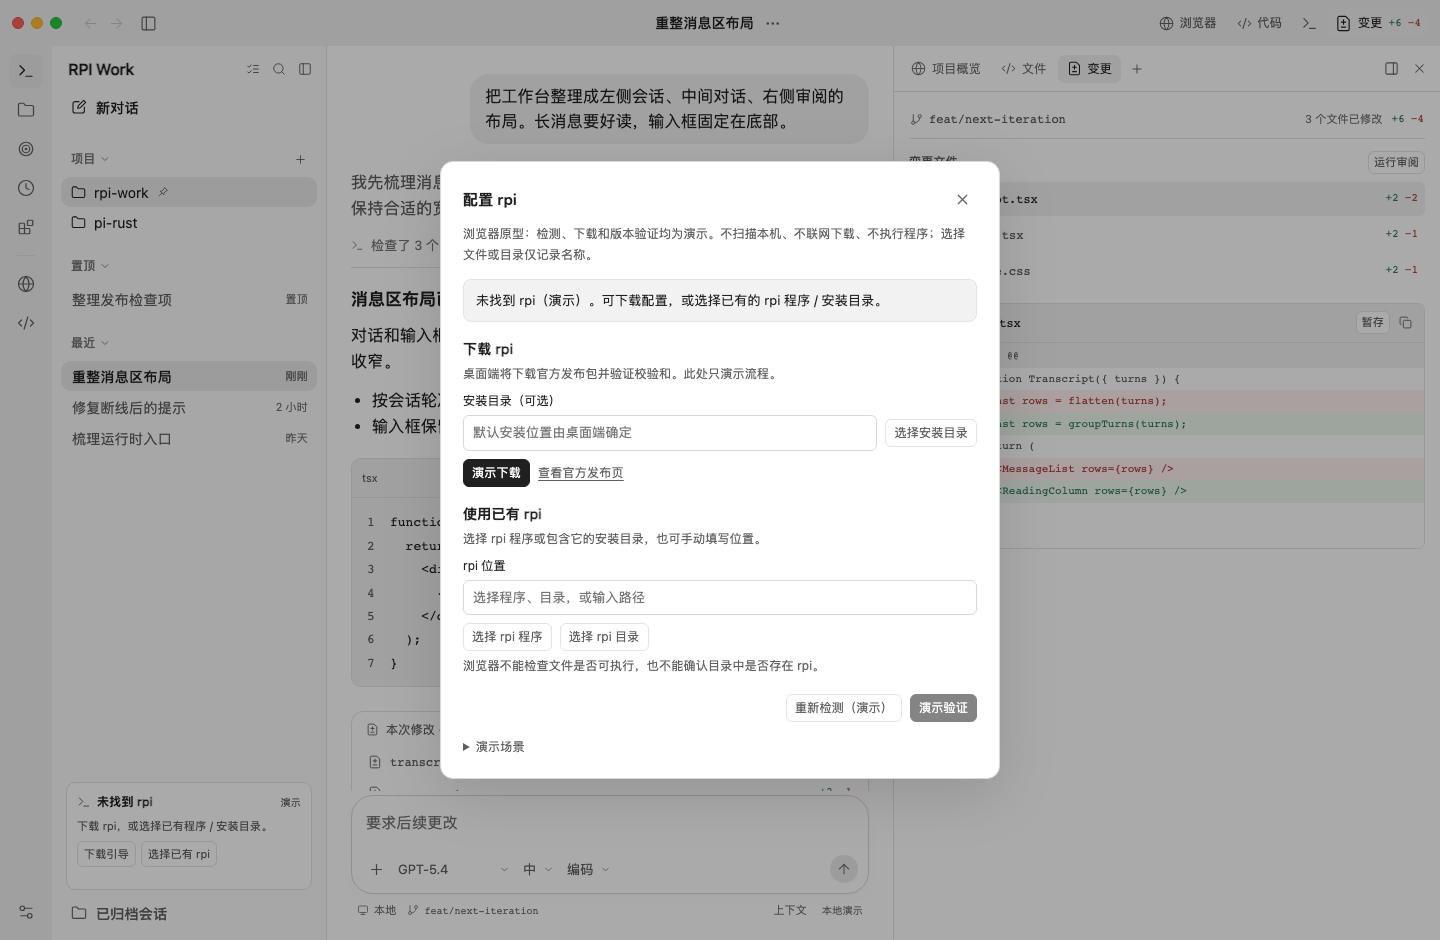
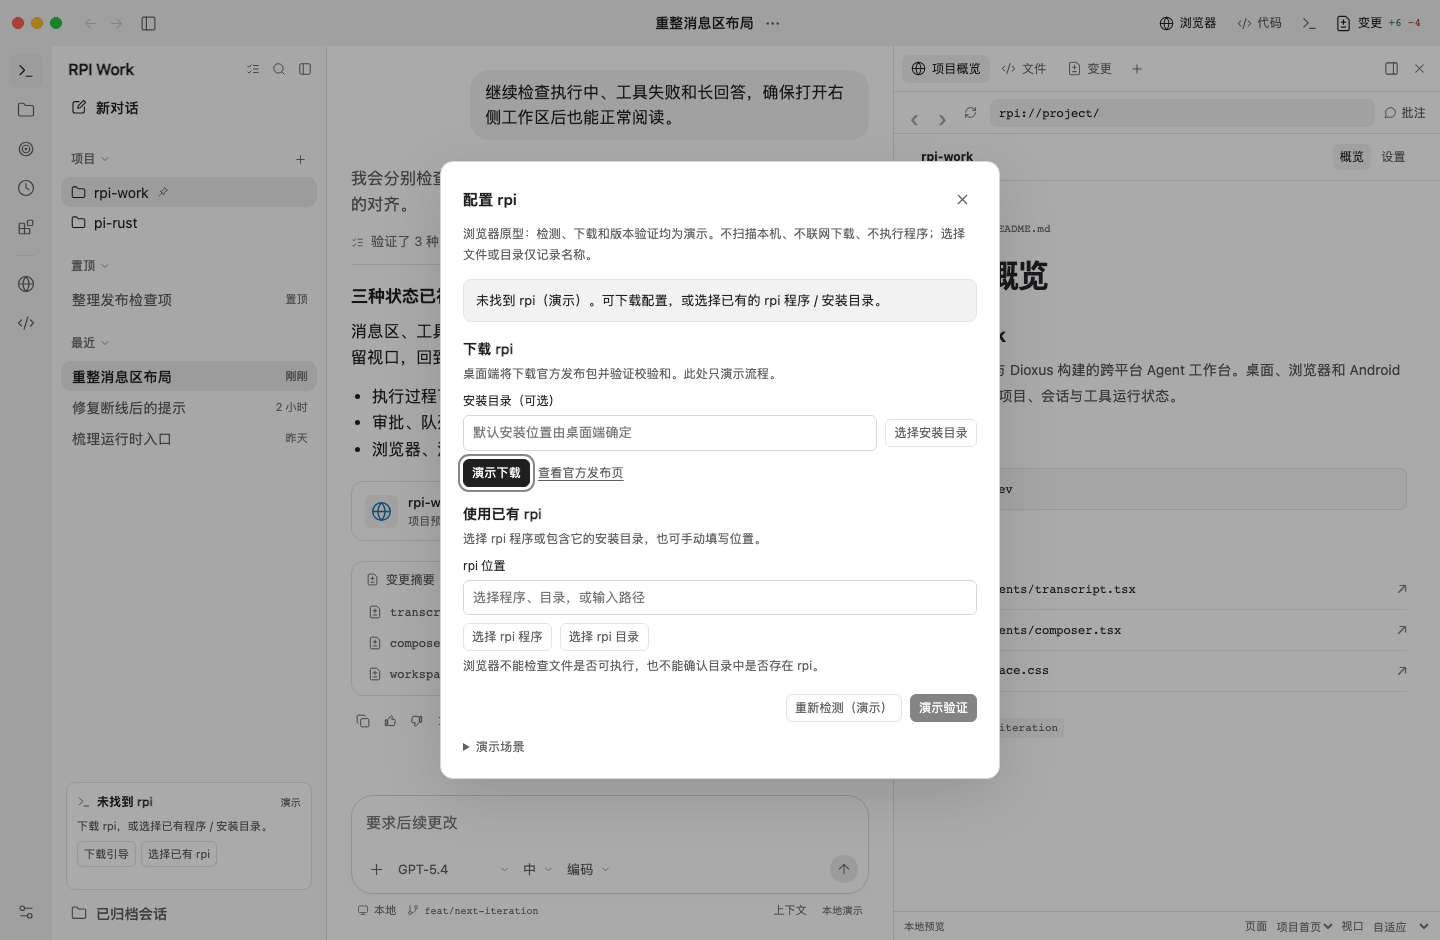
fix(reui): open startup setup only when rpi is missing

diff --git a/design/reui-message-layout/runtime-setup.js b/design/reui-message-layout/runtime-setup.js
@@ -18,6 +18,7 @@
   let stage = 'checking';
   let selection = confirmed;
   let timer;
+  let returnFocus = null;
   let pickerTicket = 0;
   let directoryTarget = 'location';
   const action = name => dialog.querySelector(`[data-runtime-action="${name}"]`);
@@ -56,12 +57,19 @@
     clearTimeout(timer);
     timer = setTimeout(callback, delay);
   }
-  function check() {
+  function check(showIfMissing = false) {
     error();
     stage = 'checking'; render();
-    later(() => { stage = confirmed ? 'ready' : 'missing'; render(); });
+    later(() => {
+      stage = confirmed ? 'ready' : 'missing'; render();
+      if (showIfMissing && stage === 'missing') open();
+    });
   }
   function open(manual = false) {
+    if (!dialog.open) {
+      const node = document.activeElement;
+      returnFocus = { node, start: node.selectionStart, end: node.selectionEnd, direction: node.selectionDirection };
+    }
     error();
     if (manual) {
       stage = selection ? 'locating' : 'missing';
@@ -168,6 +176,12 @@
     selection = confirmed;
     locationInput.value = confirmed?.label ?? '';
     error(); render();
+    const previous = returnFocus;
+    returnFocus = null;
+    if (previous?.node.isConnected) {
+      previous.node.focus({ preventScroll: true });
+      if (typeof previous.start === 'number') previous.node.setSelectionRange(previous.start, previous.end, previous.direction);
+    }
   });
-  check();
+  check(true);
 })();

diff --git a/design/reui-message-layout/README.md b/design/reui-message-layout/README.md
@@ -16,7 +16,7 @@
 
 ## 可以直接试的流程
 
-- **rpi 启动引导**　启动时自动显示非阻塞的演示检测卡；未配置时提示下载或选择已有 rpi。点「下载引导」可选择安装目录，演示下载、验证以及失败重试；也可选择 `rpi` / `rpi.exe` 程序、已有安装目录，或手动填写位置。下载完成不等于验证通过，只有演示验证成功才保存演示配置，刷新后保留。关闭引导不会清空草稿，进行中的演示任务会取消。所有检测、下载和执行都没有真实接入，只有文件/目录选择器是真实浏览器交互；官方发布页需要用户主动打开。[启动引导](screenshots/rpi-startup-guide.png) · [手动定位](screenshots/rpi-setup-manual.png) · [演示配置完成](screenshots/rpi-setup-ready.png)
+- **rpi 启动引导**　启动时先显示演示检测状态：[已检测到可用 rpi](screenshots/rpi-startup-ready.png) 则直接进入工作台，不弹窗；未检测到才自动弹出配置选择，让用户选择下载安装或手动指定已有 rpi。下载安装可选择安装目录，演示下载、验证以及失败重试；手动定位可选择 `rpi` / `rpi.exe` 程序、已有安装目录，或填写位置。下载完成不等于验证通过，只有演示验证成功才保存演示配置，刷新后保留且不再弹窗。关闭引导会取消进行中的演示任务，保留草稿、选区及原焦点，本次启动不重复弹出；之后仍可通过侧栏重新打开。所有检测、下载和执行都没有真实接入，只有文件/目录选择器是真实浏览器交互；官方发布页需要用户主动打开。[缺失时自动引导](screenshots/rpi-startup-guide.png) · [手动定位](screenshots/rpi-setup-manual.png) · [演示配置完成](screenshots/rpi-setup-ready.png)
 - **添加项目**　独立「项目」分组的标题旁放置「＋」图标，悬停提示「添加项目」。支持「选择文件夹」，名称自动填入，也可自行编辑名称或手动填写路径。优先使用原生目录选择器，不支持时使用浏览器文件夹输入；取消、拒绝或过期结果不覆盖原填写。浏览器只记录目录名，不返回绝对路径，也不读取文件内容；绝对路径与真实目录接入留给桌面端。添加后进入新项目对话，只展开项目分组，不改变最近会话的折叠或筛选状态。空白名称/路径和重名会提示；取消或 Esc 不添加项目、不清空原对话草稿。项目元数据仅保存在浏览器，不创建目录。[入口截图](screenshots/add-project-entry.png) · [添加弹窗](screenshots/add-project-dialog.png) · [添加完成](screenshots/project-added.png)
 - **项目与会话**　「项目」「置顶」「最近」分别折叠、独立保存偏好。项目列表只显示项目；点击项目进入该项目的新对话，项目菜单支持将项目排在项目列表前面，不会移动其会话。「置顶」只显示单独置顶的会话；「最近」直接平铺其他会话，不再按项目嵌套，悬停会话可查看所属项目和完整标题。会话菜单支持置顶、重命名、分叉、交接或归档。顶栏箭头沿本次访问过的会话前进、后退。搜索和执行中/待审批筛选仅影响会话，项目仍可独立访问。旧版最近分组折叠偏好会迁移到新版最近会话，不误折叠项目列表。归档会话可从设置恢复。
 - **输入与目标**　在输入框键入 `/` 搜索命令，使用 `/plan` 切换计划、`/status` 查看上下文、`/new` 新建聊天，有改动时可选 `/review`。输入 `@` 可选择示例文件或已打开目录中的文件。按 ↑/↓ 选择，Enter 或 Tab 确认。通过 `/goal` 或左侧目标按钮为当前聊天设定目标，输入框上方可以编辑、暂停、继续或移除。建立目标会启动或排队一次演示轮次，暂停会停止该目标正在运行的轮次并移除它的排队项。
@@ -59,10 +59,10 @@ python3 -m http.server 4193 --bind 127.0.0.1 --directory design/reui-message-lay
 
 用仓库 `tools/` 中的 Playwright 和已安装的 Chromium 运行浏览器回归。设置环境变量 `RPI_WORKBENCH_SHOTS` 可将截图输出到指定目录。
 
-当前回归包含 21 组流程。安装引导检查覆盖启动缺失/已配置状态、下载完成但未验证、下载/验证失败及重试、关闭后取消演示任务、手动选择程序/安装目录及配置刷新保留；项目目录检查覆盖原生 API 桩与真实浏览器文件夹输入、空目录句柄、取消/拒绝、过期结果和自定义名称保留，禁止应用读取测试文件内容，不执行程序或发起下载请求。这不等于原生桌面安装或系统文件选择器已经实机验收。侧栏检查覆盖项目/置顶/最近的数据分离、最近会话平铺且不重复、项目置顶只改变项目排序、独立折叠持久化、旧版偏好迁移、项目按钮及菜单键盘导航。添加项目检查覆盖项目标题旁的图标入口、可访问名称和悬停提示、打开时输入焦点、取消后草稿/选区/阅读位置与入口焦点保留、空白和重名提示、重新打开时清除旧错误、Esc 关闭，以及从折叠/筛选状态添加后的项目可见性、会话折叠/筛选保留、新对话归属与刷新保存。焦点检查在16种消息代码和8种源码只读/编辑桌面组合中读取PNG四边焦点像素，并验证消息代码Tab进入/离开/返回与草稿选区保留。原生ArrowRight探针在新窗口也曾超时，不列入稳定默认门槛；需明确设置 `RPI_WORKBENCH_NATIVE_SCROLL_PROBE=1` 才运行可选诊断，不代表原生键滚已完整覆盖。复制检查在隔离的剪贴板API桩内验证正文/代码/源码/diff精确载荷、正文不夹带控件、拒绝/缺失/同步抛错与重试图标恢复、延迟完成时的草稿/焦点/阅读位置，以及切换文件后的结果归属；不写真实系统剪贴板，也不等于原生权限或系统粘贴实机验证。阅读对比度检查覆盖消息/代码/diff的92个明暗计算颜色样本，包括代码计数器和增删行号，要求在实际均匀背景上至少4.5:1；这只是列明范围的对比度检查，不是全应用无障碍认证。Diff 阅读检查覆盖长行横向滚动时固定行号和反馈入口、长文件名单行省略、反馈/发现按可见宽度换行、鼠标与键盘的新/旧行位置，以及明暗、桌面宽度和320px窄面板。正文排版检查覆盖已有/新回答在16/18px、舒适/紧凑、明暗和阅读/经典布局下的一致行距，字号/密度变化后的可见块锚点与底部跟随，代码/日志独立字号、草稿/DOM/展开状态保留，以及长正文换行和代码局部横向滚动。预览像素检查从原始整窗 PNG 统计标题和主体的文字像素，覆盖浅/深/系统主题、弹窗往返与普通/可控时钟；同时确认主题切换不重载 iframe、不丢未保存表单和选区、不放宽沙箱。先前的「预览主体空白」目检记录已被原始截图与裁切证据推翻，详见视觉基准。消息层次检查覆盖最终正文与阅读列对齐、完成步骤默认折叠、原生摘要键盘开关、明暗/阅读/经典布局、完成和后台完成时保留已展开工具，以及「开始实施」和失败重试入口始终可见。会话阅读恢复检查覆盖各会话的滚动锚点、工具展开与收起、前进后退、资源页往返、后台流式更新、原本在底部时继续跟随，以及历史加载场景和字号/布局变化后的返回。阅读布局检查覆盖两种布局的实际几何与样式、刷新持久化、无效偏好回退、草稿和工具展开状态、滚动锚点、1440/1280/1024px 桌面宽度，以及新对话的空变更收起、返回恢复、鼠标与键盘手动覆盖和浏览器/源码保留。历史展示检查覆盖加载和失败时禁发、重试恢复、草稿与附件刷新保留、快速切换时的过期结果取消，以及空态发送首条消息。输入菜单检查覆盖 Home/End 与 Shift 选区变化、过期引用范围保护、上下键选择、正文前缀保留，以及中文组合事件与菜单/发送的隔离；事件回归不等于所有原生输入法都已实机验证。截图输出包含相同视口与字号下的两种布局、深色布局、三种新对话面板状态及历史加载/失败/恢复。这些是原型交互与布局验证，不代表已经实现桌面像素级 1:1 对齐。
+当前回归包含 21 组流程。安装引导检查覆盖已配置时不弹窗、未配置时自动弹出选择、关闭后不重复弹出、下载完成但未验证、下载/验证失败及重试、关闭后取消演示任务、手动选择程序/安装目录及配置刷新保留；项目目录检查覆盖原生 API 桩与真实浏览器文件夹输入、空目录句柄、取消/拒绝、过期结果和自定义名称保留，禁止应用读取测试文件内容，不执行程序或发起下载请求。这不等于原生桌面安装或系统文件选择器已经实机验收。侧栏检查覆盖项目/置顶/最近的数据分离、最近会话平铺且不重复、项目置顶只改变项目排序、独立折叠持久化、旧版偏好迁移、项目按钮及菜单键盘导航。添加项目检查覆盖项目标题旁的图标入口、可访问名称和悬停提示、打开时输入焦点、取消后草稿/选区/阅读位置与入口焦点保留、空白和重名提示、重新打开时清除旧错误、Esc 关闭，以及从折叠/筛选状态添加后的项目可见性、会话折叠/筛选保留、新对话归属与刷新保存。焦点检查在16种消息代码和8种源码只读/编辑桌面组合中读取PNG四边焦点像素，并验证消息代码Tab进入/离开/返回与草稿选区保留。原生ArrowRight探针在新窗口也曾超时，不列入稳定默认门槛；需明确设置 `RPI_WORKBENCH_NATIVE_SCROLL_PROBE=1` 才运行可选诊断，不代表原生键滚已完整覆盖。复制检查在隔离的剪贴板API桩内验证正文/代码/源码/diff精确载荷、正文不夹带控件、拒绝/缺失/同步抛错与重试图标恢复、延迟完成时的草稿/焦点/阅读位置，以及切换文件后的结果归属；不写真实系统剪贴板，也不等于原生权限或系统粘贴实机验证。阅读对比度检查覆盖消息/代码/diff的92个明暗计算颜色样本，包括代码计数器和增删行号，要求在实际均匀背景上至少4.5:1；这只是列明范围的对比度检查，不是全应用无障碍认证。Diff 阅读检查覆盖长行横向滚动时固定行号和反馈入口、长文件名单行省略、反馈/发现按可见宽度换行、鼠标与键盘的新/旧行位置，以及明暗、桌面宽度和320px窄面板。正文排版检查覆盖已有/新回答在16/18px、舒适/紧凑、明暗和阅读/经典布局下的一致行距，字号/密度变化后的可见块锚点与底部跟随，代码/日志独立字号、草稿/DOM/展开状态保留，以及长正文换行和代码局部横向滚动。预览像素检查从原始整窗 PNG 统计标题和主体的文字像素，覆盖浅/深/系统主题、弹窗往返与普通/可控时钟；同时确认主题切换不重载 iframe、不丢未保存表单和选区、不放宽沙箱。先前的「预览主体空白」目检记录已被原始截图与裁切证据推翻，详见视觉基准。消息层次检查覆盖最终正文与阅读列对齐、完成步骤默认折叠、原生摘要键盘开关、明暗/阅读/经典布局、完成和后台完成时保留已展开工具，以及「开始实施」和失败重试入口始终可见。会话阅读恢复检查覆盖各会话的滚动锚点、工具展开与收起、前进后退、资源页往返、后台流式更新、原本在底部时继续跟随，以及历史加载场景和字号/布局变化后的返回。阅读布局检查覆盖两种布局的实际几何与样式、刷新持久化、无效偏好回退、草稿和工具展开状态、滚动锚点、1440/1280/1024px 桌面宽度，以及新对话的空变更收起、返回恢复、鼠标与键盘手动覆盖和浏览器/源码保留。历史展示检查覆盖加载和失败时禁发、重试恢复、草稿与附件刷新保留、快速切换时的过期结果取消，以及空态发送首条消息。输入菜单检查覆盖 Home/End 与 Shift 选区变化、过期引用范围保护、上下键选择、正文前缀保留，以及中文组合事件与菜单/发送的隔离；事件回归不等于所有原生输入法都已实机验证。截图输出包含相同视口与字号下的两种布局、深色布局、三种新对话面板状态及历史加载/失败/恢复。这些是原型交互与布局验证，不代表已经实现桌面像素级 1:1 对齐。
 
 ```sh
 node design/reui-message-layout/verify.cjs
 ```
 
-可单独运行 `node design/reui-message-layout/verify-setup.cjs`。`?runtime=missing` / `?runtime=ready` 是显式启动状态夹具；「rpi 配置 → 演示场景」可选择下载失败或验证失败，均不代表真实检测结果。下载来源参考 [rpi 官方发布页](https://github.com/bigfish1913/pi-rust/releases)，本原型不会执行安装脚本。
+可单独运行 `node design/reui-message-layout/verify-setup.cjs`。常规工作台回归显式使用 `?runtime=ready` 模拟启动已通过，避免启动弹窗遮挡其他流程；安装引导回归独立验证静默进入、自动弹出和保存配置后的刷新行为，切换其他视图时保留启动夹具参数。`?runtime=missing` / `?runtime=ready` 是显式启动状态夹具；「rpi 配置 → 演示场景」可选择下载失败或验证失败，均不代表真实检测结果。下载来源参考 [rpi 官方发布页](https://github.com/bigfish1913/pi-rust/releases)，本原型不会执行安装脚本。

diff --git a/design/reui-message-layout/DESIGN-REVIEW.md b/design/reui-message-layout/DESIGN-REVIEW.md
@@ -35,10 +35,10 @@
 用户确认先补原型：添加项目可以选择文件夹，启动时体现 rpi 缺失后的下载安装引导，或手动选择已有程序 / 安装目录。
 
 - 添加项目优先使用原生目录选择器，回退到浏览器文件夹输入；自动填写名称但保留自定义名称。取消、拒绝或返回过晚的选择不覆盖当前表单。目录名不是绝对路径，界面明确说明；不读取所选文件内容。
-- 启动后自动显示非阻塞的演示检测卡，不抢占对话焦点、不静默下载安装。缺失时可打开[下载引导](screenshots/rpi-startup-guide.png)，选择目标目录，演示下载和验证；下载完成与验证通过分开，失败可重试。
+- 启动分支按最新确认调整：[已检测到可用 rpi](screenshots/rpi-startup-ready.png) 时静默进入工作台，不弹窗；未检测到才自动弹出[配置选择](screenshots/rpi-startup-guide.png)，让用户选择下载安装或手动指定已有 rpi。不静默下载安装，关闭后本次启动不再自动弹出，侧栏保留重新打开入口。选择目标目录后可演示下载和验证；下载完成与验证通过分开，失败可重试。
 - 可[手动定位](screenshots/rpi-setup-manual.png) `rpi` / `rpi.exe` 或已有安装目录，也可填写位置。选择程序仅做文件名检查，不能证明其可执行性、版本或安全性。
 - 检测、下载、校验和及版本验证都没有真实接入；只有选择器是真实浏览器交互，成功仅保存[演示配置](screenshots/rpi-setup-ready.png)。关闭引导取消未完成的演示任务，保留草稿及选区。官方发布页须用户主动打开，本原型不运行安装脚本。
-- 新增专门回归覆盖以上成功、失败、取消、过期及刷新场景，整体21组通过；未读取文件内容、未联网下载、未执行程序。自动化目录句柄使用桩，文件夹输入使用临时目录，不等于原生桌面安装与系统选择器的完整实机验收。
+- 新增专门回归覆盖以上成功、失败、取消、过期及刷新场景；新增断言验证检测成功不弹窗、缺失自动弹出、关闭不反复弹出、自动引导结束后草稿选区及焦点恢复，整体21组通过。其他工作台回归显式使用启动成功夹具，组合视图查询参数时不会丢失启动状态。未读取文件内容、未联网下载、未执行程序。自动化目录句柄使用桩，文件夹输入使用临时目录，不等于原生桌面安装与系统选择器的完整实机验收。
 
 ## 当前结论
 
